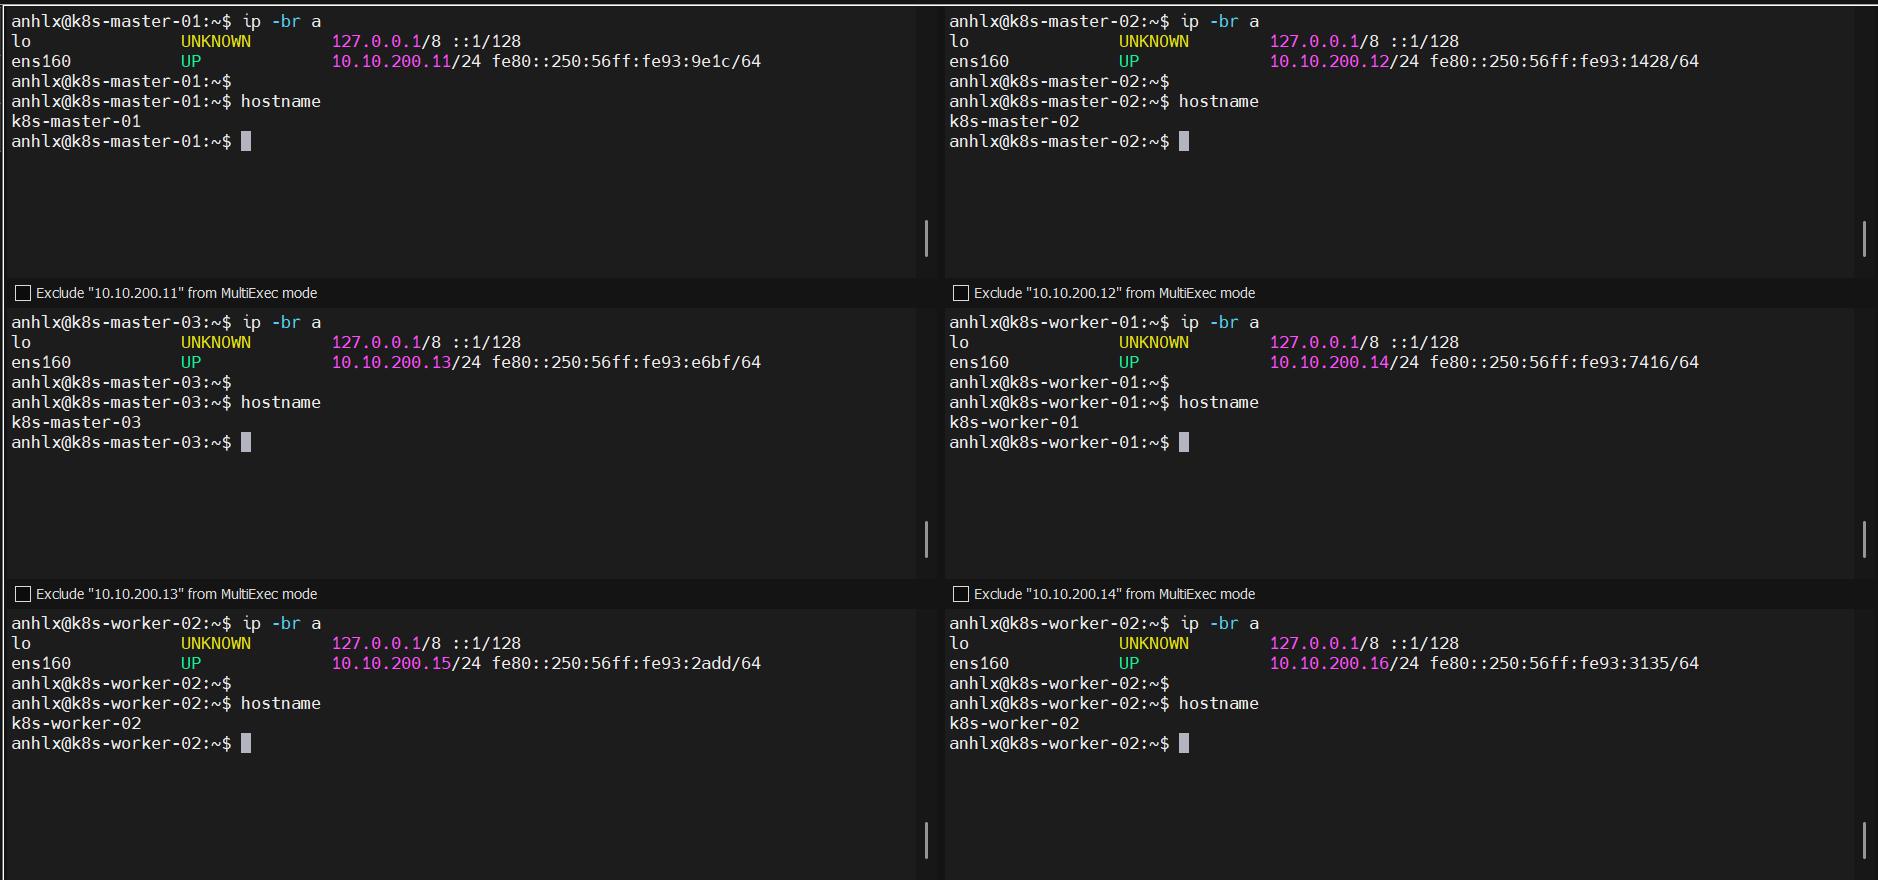
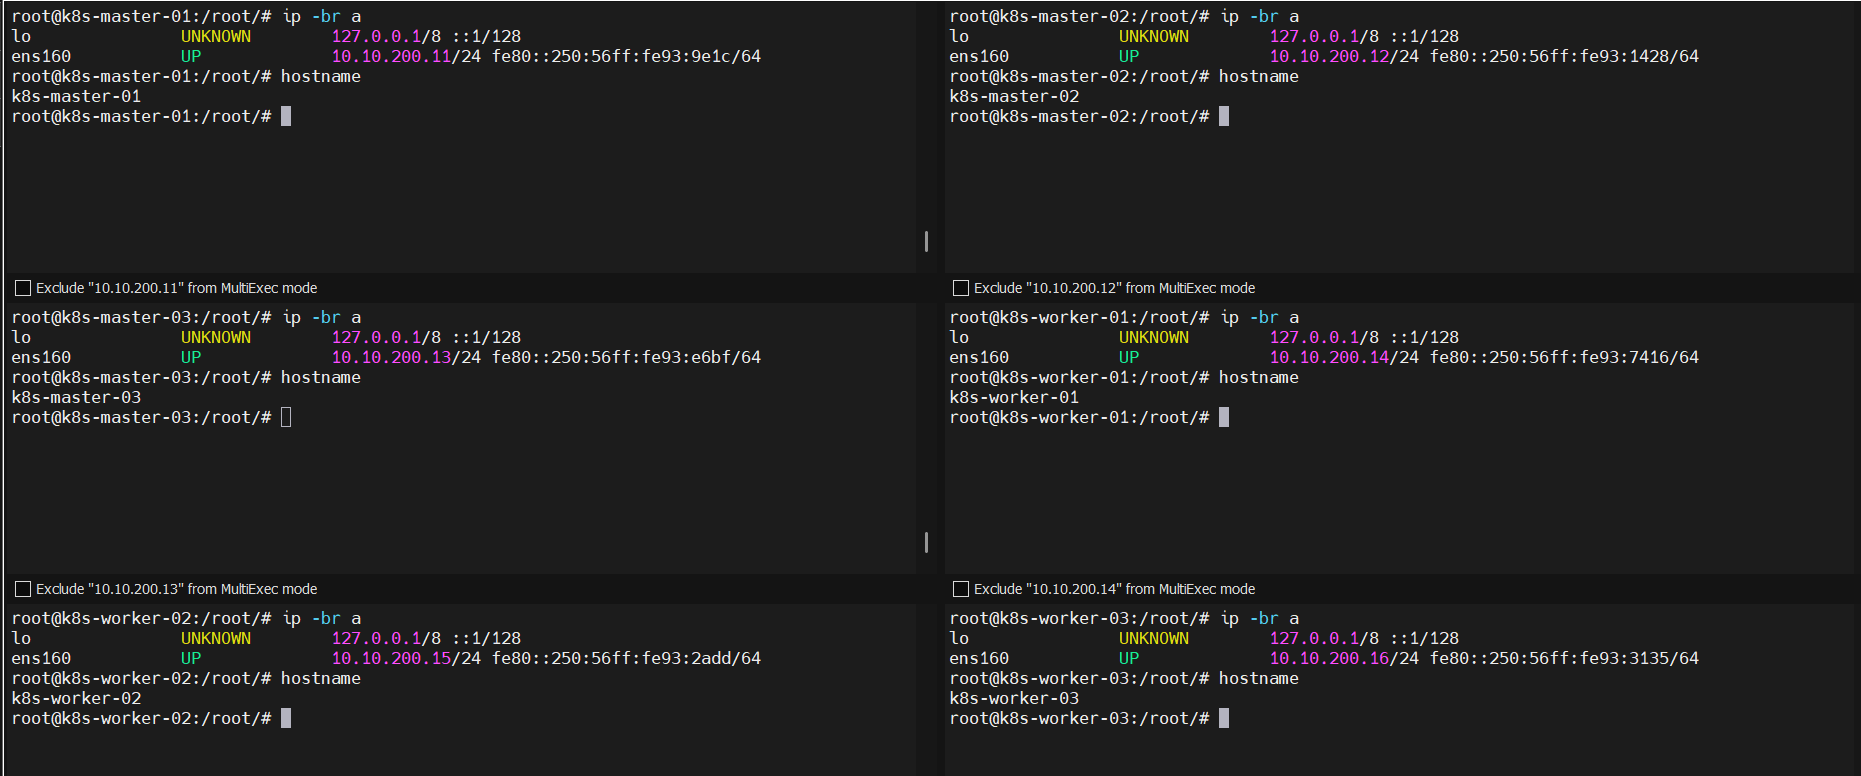
update

diff --git a/_posts/2026-03-27-kubernetes-ha-cluster-lab.md b/_posts/2026-03-27-kubernetes-ha-cluster-lab.md
@@ -318,6 +318,8 @@ sudo systemctl enable keepalived
 ip addr show ens160 | grep 10.10.200.10
 ```
 
+<img src="/assets/img/2026-03-27-kubernetes-ha-cluster/02.png" />
+
 ### 6. Khởi tạo Kubernetes Cluster
 
 #### 6.1. Init cluster trên master đầu tiên
@@ -340,6 +342,7 @@ mkdir -p $HOME/.kube
 sudo cp -i /etc/kubernetes/admin.conf $HOME/.kube/config
 sudo chown $(id -u):$(id -g) $HOME/.kube/config
 ```
+<img src="/assets/img/2026-03-27-kubernetes-ha-cluster/03.png" />
 
 #### 6.2. Join các master còn lại
 
@@ -361,6 +364,7 @@ sudo kubeadm join k8s-api:8443 --token <token> \
 ```bash
 kubectl get nodes -o wide
 ```
+<img src="/assets/img/2026-03-27-kubernetes-ha-cluster/03.png" />
 
 ### 7. Cài Cilium CNI
 